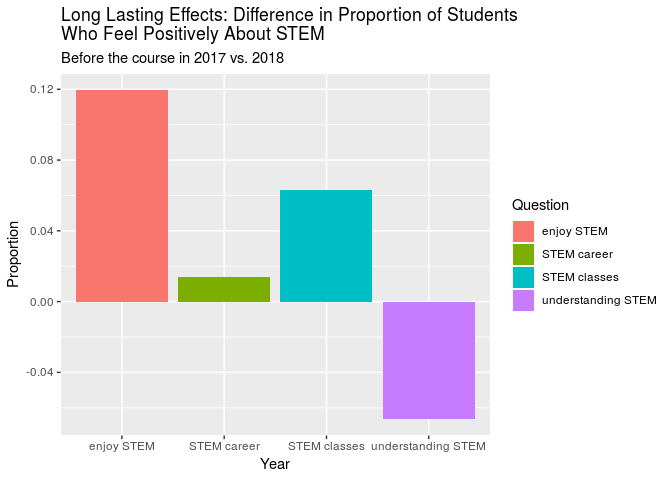
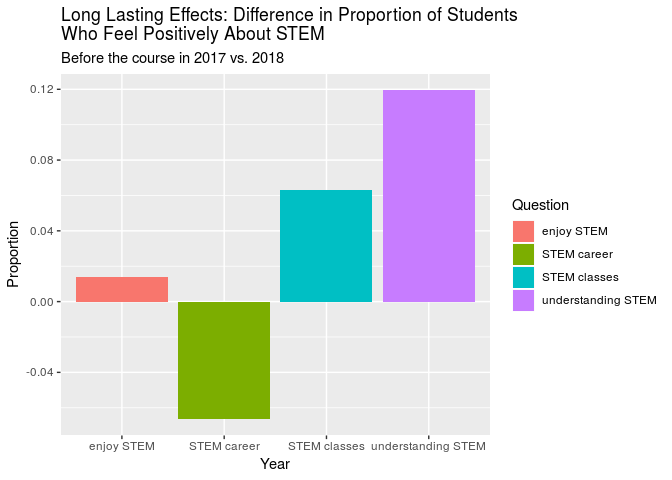
correct small mistake

Changed region(s): [[0.0938, 0.1875, 0.4062, 0.875], [0.5625, 0.1875, 0.7188, 0.875]]

diff --git a/PROPOSAL.md b/PROPOSAL.md
@@ -1049,6 +1049,9 @@ empower_new %>%
     ## 4 5 bach    36
     ## 5 5 mag     28
 
+SHINY APP GOES HERE
+===================
+
 Pre 2017 vs. Pre 2018 Analysis
 ==============================
 
@@ -1173,15 +1176,15 @@ Who Feel Positively About STEM",
 ![](PROPOSAL_files/figure-markdown_github/unnamed-chunk-60-1.png)
 
 ``` r
-pre_diffprop <- data.frame("question" = c("enjoy STEM", "STEM career", "STEM classes", "understanding STEM"),  "diff_prop" = c(pre_understanding_prop-understanding, pre_enjoy_prop-enjoy, pre_classes_prop-interest_classes, pre_careers_prop-interest_career))
+pre_diffprop <- data.frame("question" = c("enjoy STEM", "STEM career", "STEM classes", "understanding STEM"),  "diff_prop" = c(pre_enjoy_prop-enjoy,pre_careers_prop-interest_career,  pre_classes_prop-interest_classes, pre_understanding_prop-understanding))
 pre_diffprop
 ```
 
     ##             question   diff_prop
-    ## 1         enjoy STEM  0.11939799
-    ## 2        STEM career  0.01410256
+    ## 1         enjoy STEM  0.01410256
+    ## 2        STEM career -0.06637863
     ## 3       STEM classes  0.06314082
-    ## 4 understanding STEM -0.06637863
+    ## 4 understanding STEM  0.11939799
 
 ``` r
 ggplot(data = pre_diffprop, aes(x=question, y=diff_prop, fill=question)) +
